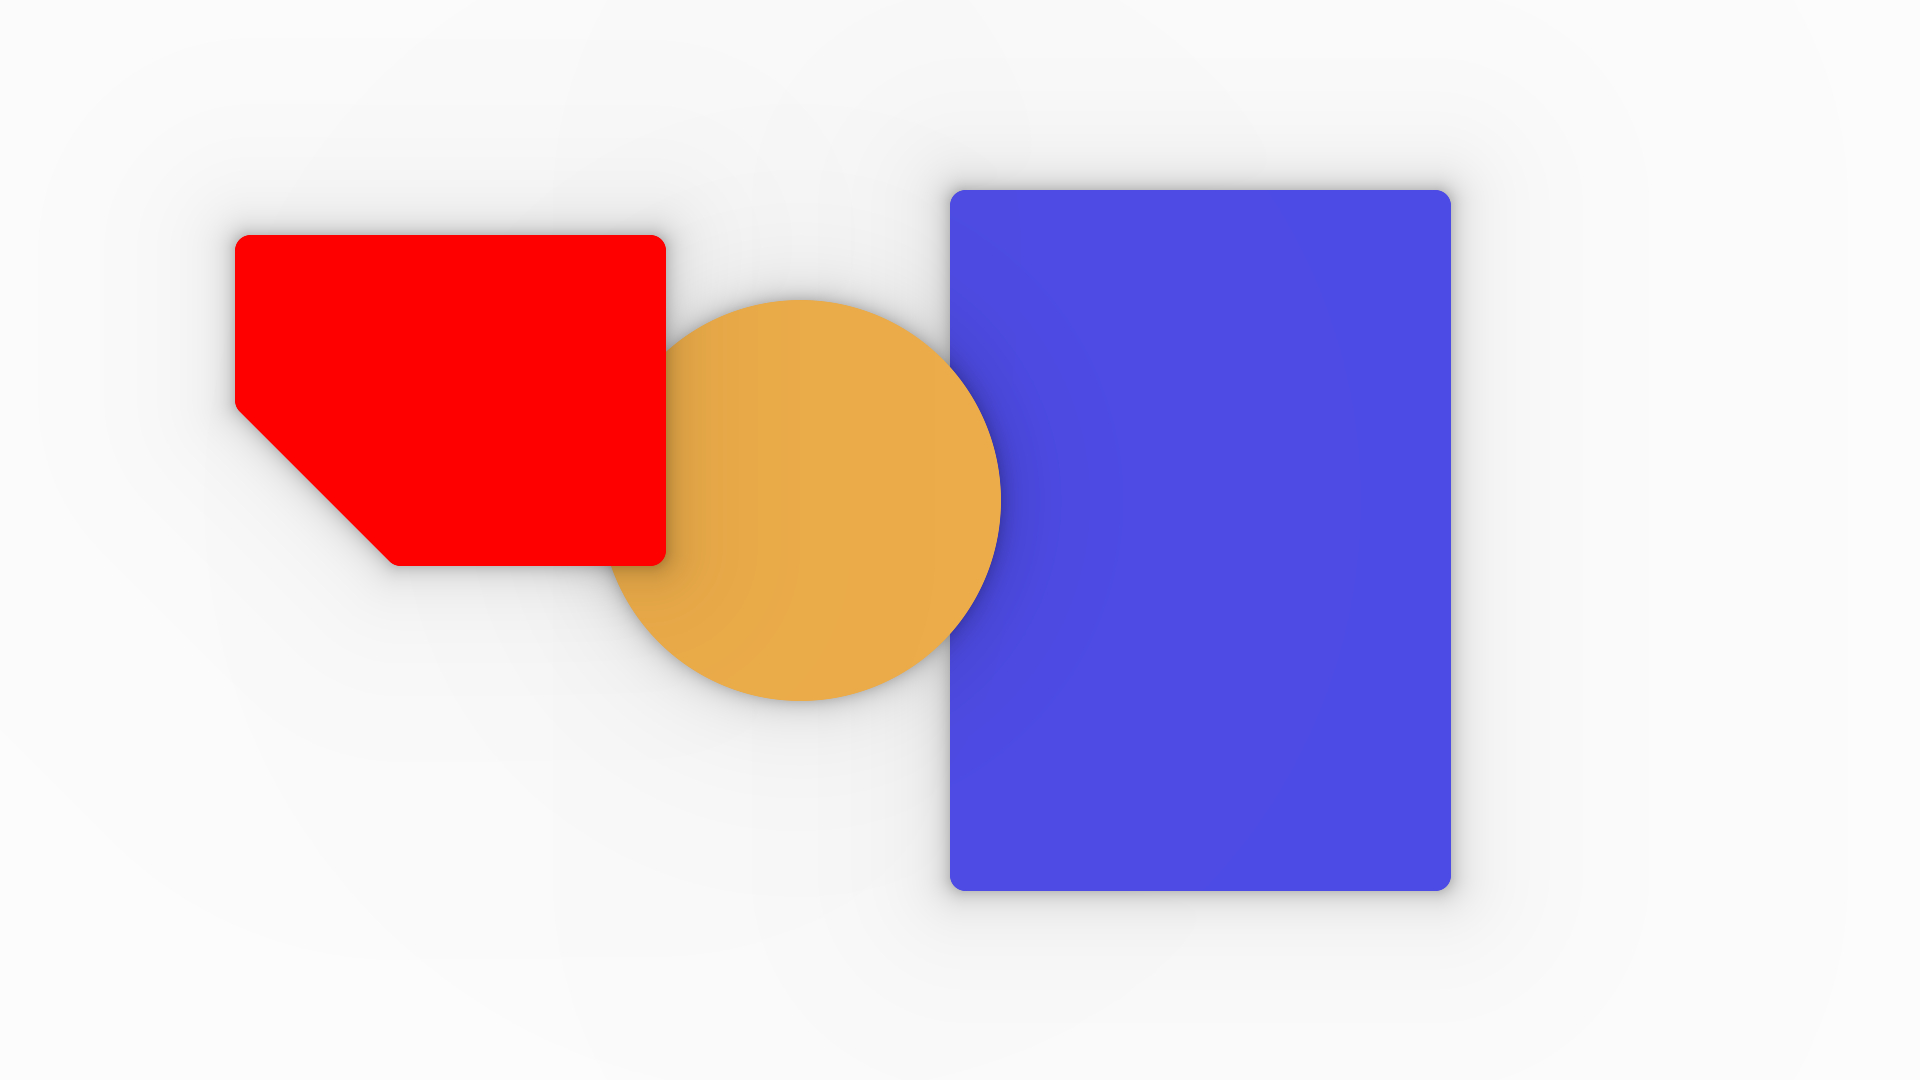
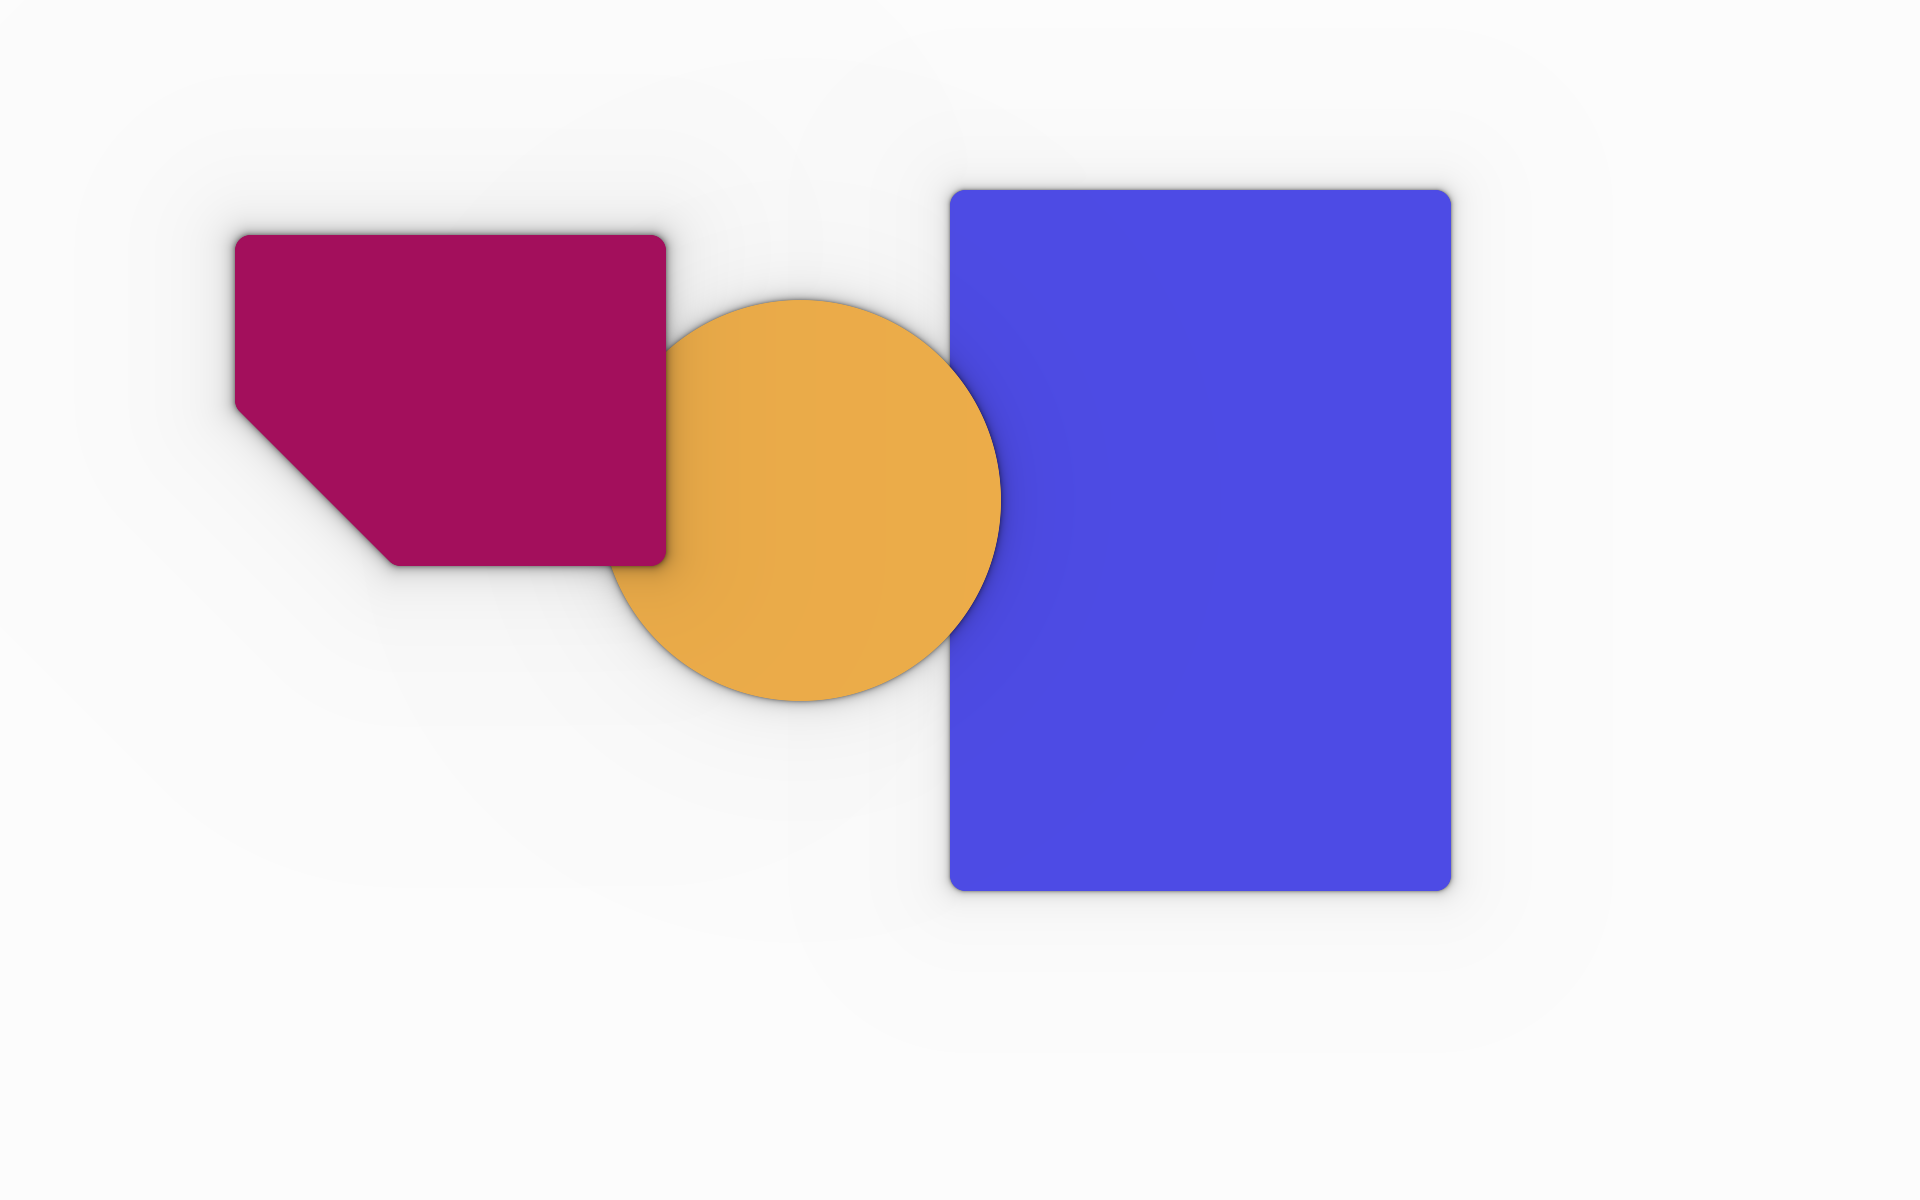
Add basic multithreading, not sure how it works

Changed region(s): [[0.0938, 0.1833, 0.5312, 0.6722], [0.4688, 0.7333, 0.7812, 0.8556], [0.4688, 0.1528, 0.7812, 0.1833]]

diff --git a/sdf_renderer.py b/sdf_renderer.py
@@ -5,8 +5,7 @@ import numpy as np
 import time
 from PIL import Image
 from cmath import inf
-from numba import jit
-import cv2
+from numba import jit, prange
 
 # %%
 # Vector support functions
@@ -165,14 +164,14 @@ def multiply(c, f):
     b = c[2] * f
     return [r, g, b, 255]
 
-@jit(nopython=True)
+@jit(nopython=True, parallel=True)
 def render(render_tex, tex_width, tex_height, objects):
-    for w in range(tex_width):
-        for h in range(tex_height):
+    for w in prange(tex_width):
+        for h in prange(tex_height):
             for object_descriptor in objects:
                 d = inf
                 if object_descriptor[0] == LINE:
-                    d = line(w, h, 10, 10, 1910, 1070, 2)
+                    d = line(w, h, 10, 10, 1910, 1070, 0.075)
                 if object_descriptor[0] == RECT:
                     d = rounded_box(w, h, 1200, 540, 500, 700, 15)
                 if object_descriptor[0] == CIRCLE:
@@ -184,45 +183,50 @@ def render(render_tex, tex_width, tex_height, objects):
                     continue
 
                 shadow_angle = np.pi
-                elevation = 10
+                elevation = object_descriptor[4]
 
                 if d < -0.5:
                     render_tex[h][w] = [object_descriptor[1], object_descriptor[2], object_descriptor[3], 255]
+                    continue
 
                 if 1 >= d >= -0.5:
                     s = smoothstep(d, 0, 1)
                     if d > 0:
                          shadow_angle -= np.arctan(elevation/d)
-                    render_tex[h][w] = interpolate_colors([object_descriptor[1], object_descriptor[2], object_descriptor[3], 255], multiply(render_tex[h][w], (abs(125*shadow_angle/np.pi)+130)/255), s)
+                    render_tex[h][w] = interpolate_colors([object_descriptor[1], object_descriptor[2], object_descriptor[3], 255], multiply(render_tex[h][w], abs(shadow_angle/np.pi)), s)
+                    continue
 
                 if d > 1:
                     shadow_angle -= np.arctan(elevation/d)
-                    render_tex[h][w] = multiply(render_tex[h][w], (abs(125*shadow_angle/np.pi)+130)/255)
+                    render_tex[h][w] = multiply(render_tex[h][w], abs(shadow_angle/np.pi))
+                    continue
+
+# %%
+# Helper functions
+# ----------------------------------------------
+
+@jit(nopython=True)
+def rgb(r, g, b):
+    return [r, g, b]
 
 # %%
 # Driver code
 # ----------------------------------------------
 
-# Setup texture maps
-TEX_WIDTH, TEX_HEIGHT = 1920, 1080
+TEX_WIDTH, TEX_HEIGHT = 1920, 1200
 
 render_tex = generate_render_texture(TEX_WIDTH, TEX_HEIGHT)
-dist_tex = np.full((TEX_HEIGHT, TEX_WIDTH), fill_value=np.inf, dtype=np.float64)
-shadow_map = np.zeros((TEX_HEIGHT, TEX_WIDTH), dtype=np.float64)
 
 # Setup objects
 N_OBJECTS = 3
 
-object_descriptors = np.zeros((N_OBJECTS, 4), np.int32)
+object_descriptors = np.zeros((N_OBJECTS, 5), np.int32)
 
 # Universal Object Description: [type, r, g, b], to be extended...
-object_descriptors[0] = [RECT, 79, 77, 231]
-# object_descriptors[0] = [RECT, 255, 255, 255]
-# object_descriptors[0] = [LINE, 188, 136, 241]
-object_descriptors[1] = [CIRCLE, 237, 173, 74]
-# object_descriptors[1] = [CIRCLE, 255, 255, 255]
-object_descriptors[2] = [POLYGON, 255, 0, 0]
-# object_descriptors[0] = [POLYGON, 255, 255, 255]
+object_descriptors[0] = [RECT, *rgb(79, 77, 231), 2]
+object_descriptors[1] = [CIRCLE, *rgb(237, 173, 74), 3]
+object_descriptors[2] = [POLYGON, *rgb(163, 15, 92), 4]
+# object_descriptors[3] = [LINE, *rgb(255, 0, 0), 0]
 
 start = time.time()
 render(render_tex, TEX_WIDTH, TEX_HEIGHT, object_descriptors)
